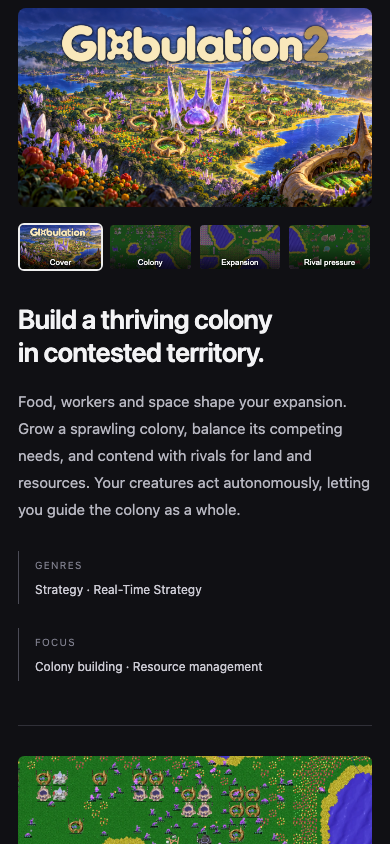
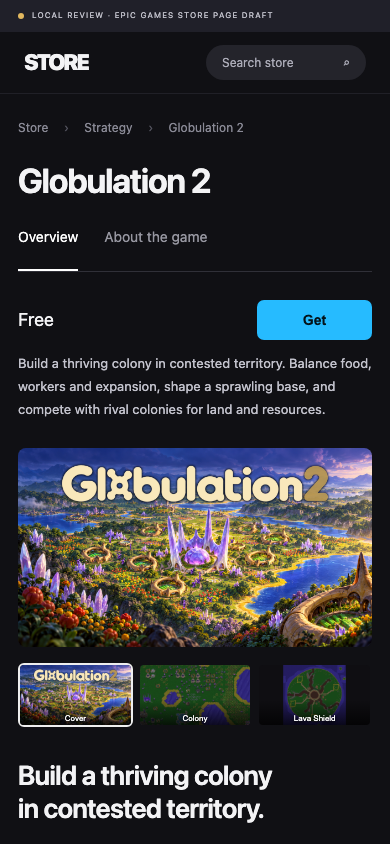
Give the Epic gallery a distinct Lava Shield map view
Respond to the user's visual review that the latter screenshots were too similar
and failed to show a clear battle, interesting terrain or the broader map. Keep
the strong colony/economy replay, remove the weak expansion and defence crops,
and add the approved native Lava Shield whole-map delivery export. Preserve the
complete volcanic island rather than cropping its defining shape out of the hero.

Use the map in the spatial About section with source-backed copy about its crater,
branching flows and crossings. Keep defence copy as text only rather than filling
the page with another weak or redundant image. The reviewed gallery is now Cover,
Colony and Lava Shield. Distinguish the illustration, historical colony replay and
fresh generator render in provenance; the map is not an active battle or a live
strategic-overview UI screenshot.

Regenerate desktop, About, full-page and mobile review renders, and add a selected
Lava Shield proof image. Verify three gallery entries, image decoding, absence of
retired/rejected image references, disabled Get, working map selection, contain
framing for the whole map and no horizontal overflow at 390px. Review desktop and
mobile images, source changes, status and staged whitespace.

Mark the bounded gallery refresh complete while separately retaining the clear
large-battle and actual strategic-UI captures as unfinished work. Evaluated coastal
and Four Squares states did not qualify, and resource algae are not armies. No
[…]

diff --git a/assets/epic-page-preview/style.css b/assets/epic-page-preview/style.css
@@ -1,4 +1,4 @@
-:root{color-scheme:dark;--bg:#101014;--muted:#96969f;--line:#303038;--ink:#f3f3f5;--cream:#f9e8bb;--blue:#26bbff}*{box-sizing:border-box}html{scroll-behavior:auto}body{margin:0;background:var(--bg);color:var(--ink);font:15px/1.65 -apple-system,BlinkMacSystemFont,"Segoe UI",Arial,sans-serif}.reviewbar{height:32px;display:flex;align-items:center;gap:8px;padding:0 28px;background:#202029;font-size:10px;letter-spacing:.12em;color:#c1c1cb}.reviewdot{width:6px;height:6px;background:#e2b85f;border-radius:50%}.reviewright{margin-left:auto;color:#93939f;letter-spacing:.02em}.storebar{height:80px;display:flex;align-items:center;gap:40px;border-bottom:1px solid #202027;padding:0 max(32px,calc((100vw - 1280px)/2))}.storebrand{font-size:22px;font-weight:900;letter-spacing:-.08em}.storelinks{display:flex;gap:28px;color:#a3a3ae;font-size:14px}.search{margin-left:auto;width:210px;background:#24242b;border-radius:24px;padding:8px 16px;font-size:12px;color:#acacb8}.search span{float:right}main{max-width:1280px;margin:auto;padding:40px 32px 0}.breadcrumb{color:#8a8a96;font-size:12px}.breadcrumb span{padding:0 12px;color:#53535e}h1{font-size:42px;line-height:1.2;letter-spacing:-.035em;font-weight:650;margin:22px 0 24px}.tabs{display:flex;gap:26px;height:47px;border-bottom:1px solid var(--line);margin-bottom:28px}.tabs a{color:#9797a1;text-decoration:none;font-size:14px}.tabs a.selected{color:white;border-bottom:2px solid white}.product{display:grid;grid-template-columns:minmax(0,1fr) 282px;gap:44px}.hero{aspect-ratio:16/9;overflow:hidden;border-radius:8px;background:#1b1b22}.hero img{width:100%;height:100%;object-fit:contain}.gallery{display:grid;grid-template-columns:repeat(4,1fr);gap:10px;margin:16px 0 0}.thumb{padding:0;border:2px solid transparent;background:transparent;border-radius:6px;overflow:hidden;position:relative;cursor:pointer;aspect-ratio:16/9;color:white}.thumb img{display:block;width:100%;height:100%;object-fit:cover;opacity:.58;transition:opacity .15s}.thumb span{position:absolute;bottom:0;left:0;right:0;font-size:9px;background:linear-gradient(transparent,#000b);padding:14px 3px 2px;text-shadow:0 1px 3px #000}.thumb.selected{border-color:#eee}.thumb.selected img,.thumb:hover img{opacity:1}.summary{padding:44px 0 34px}.summary h2{font-size:32px;line-height:1.22;letter-spacing:-.025em;font-weight:600;margin:0 0 20px}.summary>p{font-size:16px;color:#b7b7c1;line-height:1.8;margin:0;max-width:700px}.genres{display:grid;grid-template-columns:1fr 1.2fr;gap:24px;margin-top:28px}.genres>div{border-left:1px solid #4b4b56;padding-left:16px}.genres span{font-size:10px;letter-spacing:.12em;color:#7f7f8d}.genres p{margin:4px 0;color:#cccbd4;font-size:12px}.story{border-top:1px solid var(--line);padding-top:30px;margin:10px 0 34px}.story>img{display:block;width:100%;aspect-ratio:16/9;object-fit:cover;border-radius:6px}.storytext{padding:27px 0 0;max-width:700px}.eyebrow{font-size:10px;letter-spacing:.18em;color:#b99c5e}.story h2{font-size:28px;line-height:1.3;font-weight:550;letter-spacing:-.02em;margin:9px 0 14px}.story p{color:#afafb9;font-size:15px;margin:0;line-height:1.85}.opensource{border-top:1px solid var(--line);padding:30px 0 45px}.opensource h3{font-size:21px;font-weight:550;margin:0 0 5px}.opensource p{margin:0;color:#9999a5}aside{padding-top:3px}.wordmark{position:relative;width:260px;aspect-ratio:900/131;margin:28px auto 46px}.offerlabel{font-size:10px;font-weight:700;letter-spacing:.07em;background:#2b2b34;border-radius:3px;width:max-content;padding:3px 8px}.price{font-size:18px;margin:13px 0 16px}.get{width:100%;height:50px;background:var(--blue);color:#04131a;border:0;border-radius:7px;font-size:14px;font-weight:650;opacity:1}.offer-note{color:#7f7f8d;font-size:10px;line-height:1.5;margin:9px 0 24px}.shortpitch{color:#c3c3cd;line-height:1.8;font-size:13px;margin:0 0 22px}.detail{display:flex;justify-content:space-between;padding:13px 0;border-bottom:1px solid var(--line);font-size:11px;color:#858591}.detail strong{font-weight:500;color:#d7d7dd}.pending{font-weight:400;font-size:9px;color:#7f7f8e;margin-left:3px}.pendingfields{font-size:10px;color:#777784;line-height:1.7;padding-top:17px}footer{margin-top:12px;border-top:1px solid #272730;padding:22px 0 28px;color:#62626f;font-size:9px;letter-spacing:.02em}@media(min-width:1500px){main{max-width:1420px}.product{grid-template-columns:minmax(0,1fr) 300px;gap:56px}.wordmark{width:280px}}@media(max-width:980px){main{padding:28px 24px 0}.product{grid-template-columns:minmax(0,1fr) 240px;gap:26px}.wordmark{width:220px}.summary h2{font-size:27px}.storebar{padding:0 24px}.storelinks{gap:16px}.reviewright{display:none}}@media(max-width:740px){.storebar{height:62px}.storelinks{display:none}.search{width:160px}.product{display:flex;flex-direction:column;gap:0}aside{order:-1;padding:0 0 26px;display:grid;grid-template-columns:1fr 115px;column-gap:18px}.wordmark,.offerlabel,.offer-note,.detail,.pendingfields{display:none}.shortpitch{grid-column:1/3;margin:12px 0 0}.price{grid-column:1;grid-row:1;margin:0;align-self:center}.get{grid-column:2;grid-row:1;height:40px}.summary{padding-top:32px}h1{font-size:34px}.genres{grid-template-columns:1fr}.gallery{gap:5px}.thumb span{font-size:8px}.story h2{font-size:25px}.reviewbar{font-size:8px;padding:0 18px}main{padding:24px 18px 0}.summary h2{font-size:27px}.summary>p{font-size:15px}}
+:root{color-scheme:dark;--bg:#101014;--muted:#96969f;--line:#303038;--ink:#f3f3f5;--cream:#f9e8bb;--blue:#26bbff}*{box-sizing:border-box}html{scroll-behavior:auto}body{margin:0;background:var(--bg);color:var(--ink);font:15px/1.65 -apple-system,BlinkMacSystemFont,"Segoe UI",Arial,sans-serif}.reviewbar{height:32px;display:flex;align-items:center;gap:8px;padding:0 28px;background:#202029;font-size:10px;letter-spacing:.12em;color:#c1c1cb}.reviewdot{width:6px;height:6px;background:#e2b85f;border-radius:50%}.reviewright{margin-left:auto;color:#93939f;letter-spacing:.02em}.storebar{height:80px;display:flex;align-items:center;gap:40px;border-bottom:1px solid #202027;padding:0 max(32px,calc((100vw - 1280px)/2))}.storebrand{font-size:22px;font-weight:900;letter-spacing:-.08em}.storelinks{display:flex;gap:28px;color:#a3a3ae;font-size:14px}.search{margin-left:auto;width:210px;background:#24242b;border-radius:24px;padding:8px 16px;font-size:12px;color:#acacb8}.search span{float:right}main{max-width:1280px;margin:auto;padding:40px 32px 0}.breadcrumb{color:#8a8a96;font-size:12px}.breadcrumb span{padding:0 12px;color:#53535e}h1{font-size:42px;line-height:1.2;letter-spacing:-.035em;font-weight:650;margin:22px 0 24px}.tabs{display:flex;gap:26px;height:47px;border-bottom:1px solid var(--line);margin-bottom:28px}.tabs a{color:#9797a1;text-decoration:none;font-size:14px}.tabs a.selected{color:white;border-bottom:2px solid white}.product{display:grid;grid-template-columns:minmax(0,1fr) 282px;gap:44px}.hero{aspect-ratio:16/9;overflow:hidden;border-radius:8px;background:#1b1b22}.hero img{width:100%;height:100%;object-fit:contain}.gallery{display:grid;grid-template-columns:repeat(3,1fr);gap:10px;margin:16px 0 0}.thumb{padding:0;border:2px solid transparent;background:transparent;border-radius:6px;overflow:hidden;position:relative;cursor:pointer;aspect-ratio:16/9;color:white}.thumb img{display:block;width:100%;height:100%;object-fit:cover;opacity:.58;transition:opacity .15s}.thumb span{position:absolute;bottom:0;left:0;right:0;font-size:9px;background:linear-gradient(transparent,#000b);padding:14px 3px 2px;text-shadow:0 1px 3px #000}.thumb.selected{border-color:#eee}.thumb.selected img,.thumb:hover img{opacity:1}.summary{padding:44px 0 34px}.summary h2{font-size:32px;line-height:1.22;letter-spacing:-.025em;font-weight:600;margin:0 0 20px}.summary>p{font-size:16px;color:#b7b7c1;line-height:1.8;margin:0;max-width:700px}.genres{display:grid;grid-template-columns:1fr 1.2fr;gap:24px;margin-top:28px}.genres>div{border-left:1px solid #4b4b56;padding-left:16px}.genres span{font-size:10px;letter-spacing:.12em;color:#7f7f8d}.genres p{margin:4px 0;color:#cccbd4;font-size:12px}.story{border-top:1px solid var(--line);padding-top:30px;margin:10px 0 34px}.story>img{display:block;width:100%;aspect-ratio:16/9;object-fit:cover;border-radius:6px}.storytext{padding:27px 0 0;max-width:700px}.eyebrow{font-size:10px;letter-spacing:.18em;color:#b99c5e}.story h2{font-size:28px;line-height:1.3;font-weight:550;letter-spacing:-.02em;margin:9px 0 14px}.story p{color:#afafb9;font-size:15px;margin:0;line-height:1.85}.opensource{border-top:1px solid var(--line);padding:30px 0 45px}.opensource h3{font-size:21px;font-weight:550;margin:0 0 5px}.opensource p{margin:0;color:#9999a5}aside{padding-top:3px}.wordmark{position:relative;width:260px;aspect-ratio:900/131;margin:28px auto 46px}.offerlabel{font-size:10px;font-weight:700;letter-spacing:.07em;background:#2b2b34;border-radius:3px;width:max-content;padding:3px 8px}.price{font-size:18px;margin:13px 0 16px}.get{width:100%;height:50px;background:var(--blue);color:#04131a;border:0;border-radius:7px;font-size:14px;font-weight:650;opacity:1}.offer-note{color:#7f7f8d;font-size:10px;line-height:1.5;margin:9px 0 24px}.shortpitch{color:#c3c3cd;line-height:1.8;font-size:13px;margin:0 0 22px}.detail{display:flex;justify-content:space-between;padding:13px 0;border-bottom:1px solid var(--line);font-size:11px;color:#858591}.detail strong{font-weight:500;color:#d7d7dd}.pending{font-weight:400;font-size:9px;color:#7f7f8e;margin-left:3px}.pendingfields{font-size:10px;color:#777784;line-height:1.7;padding-top:17px}footer{margin-top:12px;border-top:1px solid #272730;padding:22px 0 28px;color:#62626f;font-size:9px;letter-spacing:.02em}@media(min-width:1500px){main{max-width:1420px}.product{grid-template-columns:minmax(0,1fr) 300px;gap:56px}.wordmark{width:280px}}@media(max-width:980px){main{padding:28px 24px 0}.product{grid-template-columns:minmax(0,1fr) 240px;gap:26px}.wordmark{width:220px}.summary h2{font-size:27px}.storebar{padding:0 24px}.storelinks{gap:16px}.reviewright{display:none}}@media(max-width:740px){.storebar{height:62px}.storelinks{display:none}.search{width:160px}.product{display:flex;flex-direction:column;gap:0}aside{order:-1;padding:0 0 26px;display:grid;grid-template-columns:1fr 115px;column-gap:18px}.wordmark,.offerlabel,.offer-note,.detail,.pendingfields{display:none}.shortpitch{grid-column:1/3;margin:12px 0 0}.price{grid-column:1;grid-row:1;margin:0;align-self:center}.get{grid-column:2;grid-row:1;height:40px}.summary{padding-top:32px}h1{font-size:34px}.genres{grid-template-columns:1fr}.gallery{gap:5px}.thumb span{font-size:8px}.story h2{font-size:25px}.reviewbar{font-size:8px;padding:0 18px}main{padding:24px 18px 0}.summary h2{font-size:27px}.summary>p{font-size:15px}}
 
 /* Display the supplied Epic product-logo canvas without its transparent upper/lower margins. */
 .wordmark{height:76px;aspect-ratio:auto;margin:12px auto 28px}.wordmark img{width:100%;height:100%;object-fit:cover;display:block}

diff --git a/assets/epic-page-preview/index.html b/assets/epic-page-preview/index.html
@@ -18,13 +18,12 @@
 <div class="gallery" aria-label="Game media">
 <button class="thumb selected" aria-pressed="true" data-image="../epic-v5/offer-landscape-2560x1440.png" data-alt="Globulation 2 illustrated key art"><img src="../epic-v5/offer-landscape-2560x1440.png" alt="Cover"><span>Cover</span></button>
 <button class="thumb" aria-pressed="false" data-image="media/colony.webp" data-alt="A productive colony, with workers, food, buildings and resources"><img src="media/colony.webp" alt="Colony"><span>Colony</span></button>
-<button class="thumb" aria-pressed="false" data-image="media/expansion.webp" data-alt="Colony expansion across a contested map"><img src="media/expansion.webp" alt="Expansion"><span>Expansion</span></button>
-<button class="thumb" aria-pressed="false" data-image="media/defence.webp" data-alt="A defended colony and rival pressure"><img src="media/defence.webp" alt="Rival pressure"><span>Rival pressure</span></button>
+<button class="thumb" aria-pressed="false" data-image="../epic-gallery-v2/lava-shield-map.jpg" data-alt="Lava Shield map overview showing the volcanic island, crater, branching flows and crossings"><img src="../epic-gallery-v2/lava-shield-map.jpg" alt="Lava Shield map"><span>Lava Shield</span></button>
 </div>
 <section class="summary" id="about"><h2>Build a thriving colony<br>in contested territory.</h2><p>Food, workers and space shape your expansion. Grow a sprawling colony, balance its competing needs, and contend with rivals for land and resources. Your creatures act autonomously, letting you guide the colony as a whole.</p><div class="genres"><div><span>GENRES</span><p>Strategy · Real-Time Strategy</p></div><div><span>FOCUS</span><p>Colony building · Resource management</p></div></div></section>
 <section class="story"><img src="media/colony.webp" alt="A colony economy of buildings, food supplies and workers"><div class="storytext"><span class="eyebrow">FOOD. WORKERS. GROWTH.</span><h2>Grow an economy that<br>can sustain your ambitions.</h2><p>Food, construction and training compete for your workforce. Decide where workers are needed and balance new ambitions with the needs of the colony you already have.</p></div></section>
-<section class="story"><img src="media/expansion.webp" alt="Colonies and resources spread across terrain"><div class="storytext"><span class="eyebrow">ROOM TO GROW</span><h2>Make the map<br>part of your strategy.</h2><p>Shape your base around the land and resources. Choose where to expand, and consider what each new foothold means for your economy and your rivals.</p></div></section>
-<section class="story"><img src="media/defence.webp" alt="Replay view of a defended colony with rival pressure"><div class="storytext"><span class="eyebrow">GROWTH UNDER PRESSURE</span><h2>Defend what<br>you've built.</h2><p>Your economy supports both growth and defense. Balance the needs of your colony while rivals compete for land and resources, and prepare for conflicts that can decide the match.</p></div></section>
+<section class="story"><img src="../epic-gallery-v2/lava-shield-map.jpg" alt="Full map view of Lava Shield, with a central crater, branching flows and routes between colony starts"><div class="storytext"><span class="eyebrow">LAVA SHIELD</span><h2>Make the map<br>part of your strategy.</h2><p>Lava Shield’s crater, branching flows and crossings shape the routes between colonies. Choose where to expand, what to defend, and how to reach the resources your colony needs.</p></div></section>
+<section class="story"><div class="storytext"><span class="eyebrow">GROWTH UNDER PRESSURE</span><h2>Defend what<br>you've built.</h2><p>Your economy supports both growth and defense. Balance the needs of your colony while rivals compete for land and resources, and prepare for conflicts that can decide the match.</p></div></section>
 <div class="opensource"><h3>Free and open source.</h3><p>A strategy game to play, explore and help shape.</p></div>
 </div>
 <aside>
@@ -39,7 +38,7 @@
 
 </aside>
 </div>
-<footer>LOCAL CONTENT PREVIEW · Illustrated cover and documented replay views. See provenance notes.</footer>
+<footer>LOCAL CONTENT PREVIEW · Illustrated cover, a documented colony replay view and a Lava Shield map overview. See provenance notes.</footer>
 </main>
 <script src="preview.js"></script>
 </body></html>

diff --git a/assets/epic-page-preview/README.md b/assets/epic-page-preview/README.md
@@ -18,32 +18,32 @@ The proposed Free/Windows offer follows the existing Epic preparation record. It
 
 ## Content and provenance
 
-Copy derives from the [selected positioning](../../analysis/positioning-v1.md) and [Epic description draft](../../planning/epic-store-profile-v1.md), shortened for scanability. The page presents the colony economy first, spatial growth second, and rival pressure as a supporting part of the experience.
+Copy derives from the [selected positioning](../../analysis/positioning-v1.md) and [Epic description draft](../../planning/epic-store-profile-v1.md), shortened for scanability. The page leads with the colony economy, uses Lava Shield to make spatial strategy concrete, and retains rival pressure as text while a stronger genuine battle image remains outstanding.
 
-The hero uses the [v5 landscape illustration](../epic-v5/README.md), with its existing title and exact source-unit silhouettes. It is promotional key art, not a gameplay screenshot. The product logo uses the v5 transparent export. Both are linked directly from the sibling pack to avoid divergent copies. Existing genuine gallery and About references are copied unchanged from the website:
+| Current media | Source and context |
+| --- | --- |
+| [Illustrated cover](../epic-v5/README.md) | Promotional key art: generated environment, existing title and exact source-unit silhouettes. It is not a gameplay screenshot. The sidebar logo uses the same pack. |
+| `media/colony.webp` | Unchanged website `public/images/home-thriving-colony.webp`, revision [6e391ebe](https://github.com/Globulation2/glob2-online-website/tree/6e391ebe93b725747827a3ed7cea78f0d0d8f7e1). Actual Fingerprint / Quick clash replay recorded 2026-10-11, tick41350, fog disabled and outer HUD cropped. It is not a fresh Epic Windows capture. |
+| [Lava Shield overview](../epic-gallery-v2/lava-shield-map.jpg) | Native engine render of an initial generated Lava Shield map. The whole island is preserved inside a landscape delivery canvas. This is a map overview, not a populated battle or a screenshot of the live strategic UI. The [capture pack](../epic-gallery-v2/README.md) records source/build identity, render and export. |
 
-| Local file | Source | Context |
-| --- | --- | --- |
-| `media/colony.webp` | `public/images/home-thriving-colony.webp` | Replay view: colony/economy composition |
-| `media/expansion.webp` | `public/images/home-rival-expansion.webp` | Replay view: territorial context |
-| `media/defence.webp` | `public/images/home-colony-defence.webp` | Replay view: rival pressure |
+The Lava Shield overview replaces the similar expansion replay crop. Its crater, branching flows and crossings are documented in the game's [Lava Shield guide](https://github.com/Globulation2/glob2/blob/53110681a31d08423568afe26d5b8d8f9ac45dd1/docs/map-generators/lava-shield.md). The gallery has three entries: **Cover, Colony and Lava Shield**. The spatial About section uses the same map overview; the defence section is text-only, without a missing-image placeholder.
 
+The old `media/expansion.webp` and `media/defence.webp` files remain historical source copies, but are no longer referenced by the page. Their similar crops did not communicate a sufficiently different view or a clear large battle. The [newer controls capture](../epic-gameplay-v1/README.md) also remains excluded after its abnormal fog rendering was identified. None of the evaluated coastal or Four Squares render candidates is represented as an approved battle capture; resource algae must not be mistaken for armies.
 
-Website source revision: [6e391ebe93b725747827a3ed7cea78f0d0d8f7e1](https://github.com/Globulation2/glob2-online-website/tree/6e391ebe93b725747827a3ed7cea78f0d0d8f7e1). The homepage replay views were recorded 2026-10-11 on Fingerprint / Quick clash, tick 41350, with fog disabled and outer HUD cropped. They are not fresh player-view captures of the Epic Windows edition. The [newer controls capture](../epic-gameplay-v1/README.md) was rejected after the user identified abnormal fog rendering; it is excluded from the gallery and About. The earlier “normal fog” wording described an enabled setting without establishing visual correctness. The original remains diagnostic evidence only. The tutorial/first-colony alternatives were also inspected and contain irregular grey fog, so no unqualified replacement was substituted. Source roles and limitations belong in submission provenance even when the preview presents images cleanly.
-
-The v5 [provenance record](../epic-v5/README.md) covers its generated environment, actual game-unit silhouettes, existing wordmark masks and maintained cream/gold colors. This page introduces no third-party game art or additional character substitutes. See the [source provenance ledger](../../facts/assets.md) and original project notices for art/attribution context; this review does not finish release rights clearance.
+The v5 [provenance record](../epic-v5/README.md) covers its illustration and source silhouettes. See the [source asset ledger](../../facts/assets.md) and original project notices for art/attribution context. This local review does not complete release rights clearance.
 
 ## Remaining production work
 
-The cover is the current v5 direction; the genuine gallery uses documented earlier replay captures only. The gallery has four entries: cover, colony, expansion and rival pressure. The third About section uses the defence replay and discusses economic growth under rival pressure. A clean current-build controls image remains outstanding. Replace that gallery with stronger current-build captures when ready, verify the copy in Epic's actual field/preview system, and populate release-specific metadata from the qualified build. This file does not authorize uploads or publication.
+A clear large-battle image and an actual strategic-UI view remain open capture tasks. The current native editor automation attempt did not yield a qualified frame, and no substitute was fabricated. The Lava Shield image demonstrates map geometry only. Obtain stronger current-build mature gameplay media, verify copy and crops in Epic's actual preview, and populate release metadata from the qualified Windows build before submission. Nothing in this local review authorizes uploads or publication.
 
 ## Visual checks
 
-Rendered in the local browser at 1600×1100 desktop and 390×844 mobile. The mobile document has no horizontal overflow, and all images load. Gallery interaction switches the hero and updates selection state. The rejected controls image is absent from both gallery and About. The Get control remains disabled. No custom fonts are bundled; typography uses the system font stack.
+Rendered in the local browser at 1600×1100 desktop and 390×844 mobile. The mobile document has no horizontal overflow, and all images load. Gallery interaction switches the hero and updates selection state. The rejected controls image and retired expansion/defence crops are absent from both gallery and About. The Get control remains disabled. No custom fonts are bundled; typography uses the system font stack.
 
 - [Desktop overview](desktop-overview.png)
 - [About section](about-section.png)
+- [Lava Shield selected](lava-shield-selection.png)
 - [Full-page review](desktop-full-page.jpg)
 - [Mobile overview](mobile-overview.png)
 
-After excluding the defective controls image, all four review images were regenerated with local headless Chromium at the documented desktop/mobile viewports. The full-page image is a direct full-page browser render, with no stitching or content alterations. It is a local presentation review, not an Epic portal screenshot. Four gallery entries, loaded images, disabled Get, absence of rejected-image references and no mobile overflow were checked.
+After diversifying the gallery, all four review images were regenerated with local headless Chromium at the documented desktop/mobile viewports. The full-page image is a direct full-page browser render, with no stitching or content alterations. It is a local presentation review, not an Epic portal screenshot. Three distinct gallery entries, loaded images, disabled Get, absence of retired/rejected-image references and no mobile overflow were checked. The Lava Shield selection was checked with the complete island visible.

diff --git a/planning/tasks.md b/planning/tasks.md
@@ -35,10 +35,12 @@ On 2026-10-26, the user authorized completing the public platform audit and draf
 | MKT-020 | Review real game-store artwork and rebuild Epic key art | Complete | [Six-game visual reference review](store-art-reference-review.md) informed the [current illustrated offer pack](../assets/epic-v5/README.md): one environment illustration, exact source worker/warrior shapes at environmental scale, existing title and coherent landscape/portrait exports. Bounded art rework is prepared for review; user visual feedback, rights and final portal crop checks remain publication follow-up. Earlier studies remain historical; no store upload. |
 | MKT-021 | Assemble and visually review a coherent Epic store presentation | Complete | [Local page presentation](../assets/epic-page-preview/README.md) integrates the v5 illustrated cover, selected colony/economy positioning, genuine dated replay gallery and a [fresh current-browser controls view](../assets/epic-gameplay-v1/README.md). Desktop, About section and mobile reviewed; gallery interaction and image loading checked. This is a local review deliverable, not user acceptance, an Epic portal page or publication. |
 | MKT-022 | Exclude defective fog-of-war capture from the store presentation | Complete | Removed the rejected controls view from the [gallery and About](../assets/epic-page-preview/README.md); retained the original [capture as diagnostic evidence](../assets/epic-gameplay-v1/README.md), retracted “normal fog” qualification and used documented fog-disabled replay imagery. Root cause remains unconfirmed; no game-rendering fix or replacement capture is claimed. |
+| MKT-023 | Diversify the store gallery with a distinct map view and remove weak repeated crops | Complete | [Updated presentation](../assets/epic-page-preview/README.md) keeps the strong colony image, adds the current native Lava Shield map overview and removes the similar expansion/defence crops. Gallery is Cover/Colony/Lava Shield; defence About copy is text-only. Desktop/mobile, whole-map selection, source links and image loading reviewed. This bounded gallery refresh does not complete the requested battle/strategic-UI captures. |
+| MKT-024 | Obtain a clear large-battle capture and an actual strategic-UI view | In progress | Source saves and native renders were inspected, but the coastal/Four Squares candidates did not qualify as a clear large battle. Native editor automation did not yield a qualified UI frame. [Lava Shield render](../assets/epic-gallery-v2/README.md) is map geometry only; algae are not armies, and no map export is claimed as live strategic UI. A stronger genuine capture remains outstanding. |
 
 The user rejected the first artwork direction on 2026-10-26 as presentation-like. Its files remain historical evidence; the current art task is a full-bleed, image-led replacement informed by actual store covers, with title hierarchy and colony/economy imagery. The first generated illustration’s globs were also rejected. The subsequent [organism-shape study](../assets/epic-v2/README.md) remains historical: it relied too heavily on a generic icon rather than preserving distinct unit proportions. The user directed use of real character images, with longer, slender workers and bulkier warriors. [Unchanged source renders and a matched comparison sheet](../assets/epic-v2/unit-references/README.md) now supply that reference. A source-reference edit still failed to preserve exact anatomy. The [actual-source cover direction](../assets/epic-v4/README.md) instead uses an unchanged game scene with the existing title, keeping the real unit shapes. The [failed source-reference illustration](../assets/epic-v3/README.md) remains historical. The source covers are native-size review drafts, not submission exports; user visual feedback, fresh high-resolution captures and store qualification remain open.
 
-**Current artwork direction:** the [v5 pack](../assets/epic-v5/README.md) is the working flagship for the professional Epic presentation. The user asked for professional execution regardless of technique. The illustration contains no generated units: real slender workers and bulkier warriors preserve source silhouettes, with team tint and environmental-scale placement. Genuine gameplay media is kept separate. The draft is not a published or user-approved store asset. The [assembled page](../assets/epic-page-preview/README.md) now shows that direction in context, with documented replay imagery. The [fresh control screenshot](../assets/epic-gameplay-v1/README.md) was subsequently rejected for abnormal fog rendering and excluded under MKT-022. Stronger current-build mature-colony/economy/rival images, verified Windows release metadata and the actual Epic field/crop preview remain outstanding.
+**Current artwork direction:** the [v5 pack](../assets/epic-v5/README.md) is the working flagship for the professional Epic presentation. The user asked for professional execution regardless of technique. The illustration contains no generated units: real slender workers and bulkier warriors preserve source silhouettes, with team tint and environmental-scale placement. Genuine gameplay media is kept separate. The draft is not a published or user-approved store asset. The [assembled page](../assets/epic-page-preview/README.md) now shows that direction in context, with a retained colony replay and a distinct native Lava Shield map overview; clear large-battle and actual strategic-UI captures remain open under MKT-024. The [fresh control screenshot](../assets/epic-gameplay-v1/README.md) was subsequently rejected for abnormal fog rendering and excluded under MKT-022. Stronger current-build mature-colony/economy/rival images, verified Windows release metadata and the actual Epic field/crop preview remain outstanding.
 
 The three-player preparation task remains complete as historical work; the user cancelled its immediate execution in favor of discussion. The working v1 message is selected. Larger gameplay, access/continuity and creator studies remain deferred, without being launch prerequisites.
 
